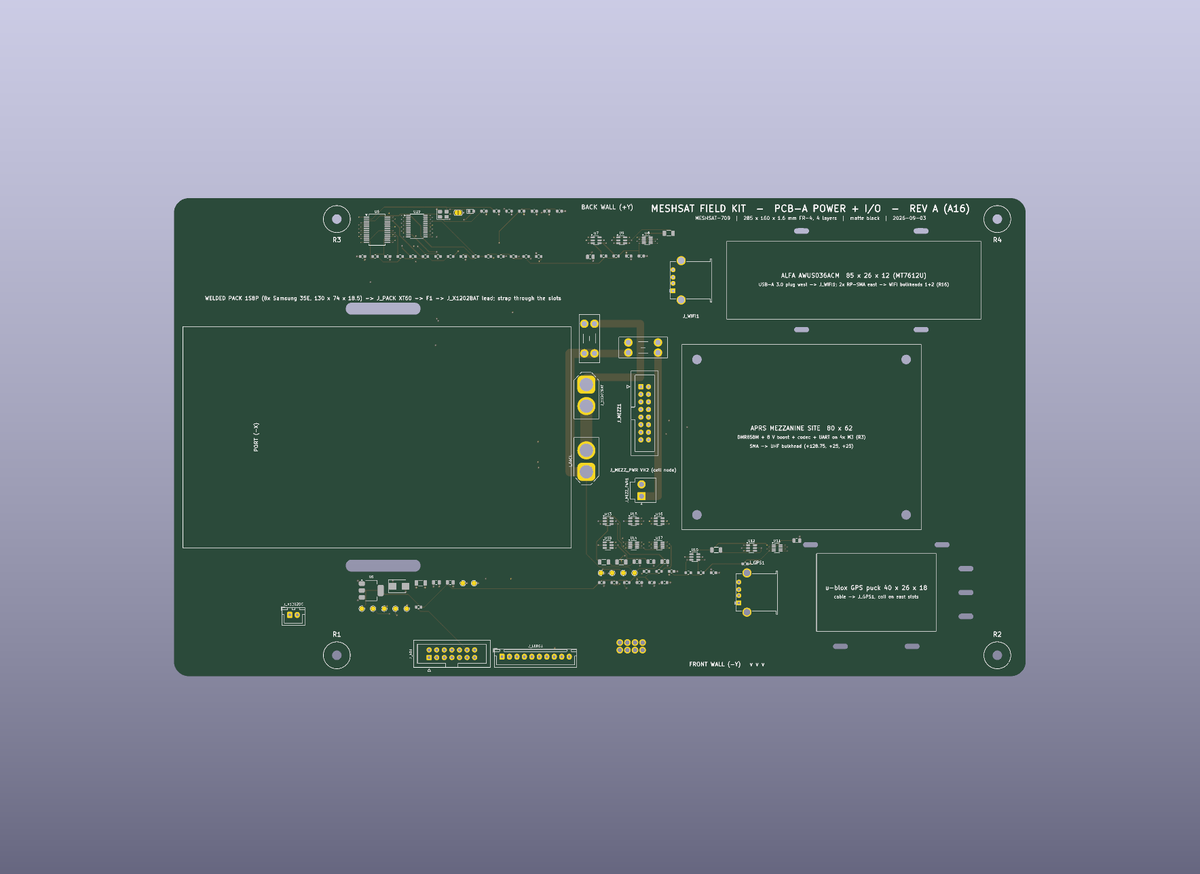
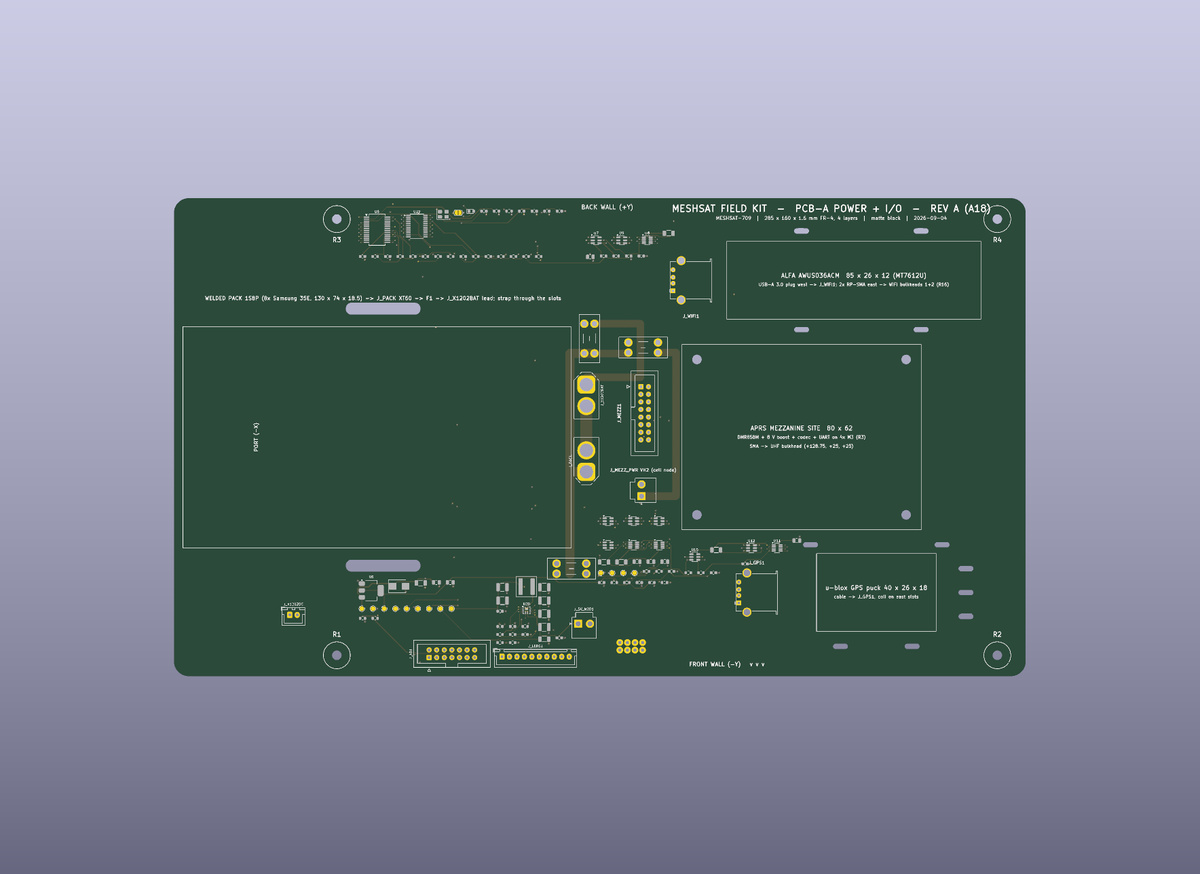
docs(709): parts named (C&K ATP19/ATP16, NKK M series, Amphenol 132170, Preci-Dip 813), A18 and E3 in the guides, appendix 32.10, previews [MESHSAT-709]

diff --git a/v2/docs/ASSEMBLY.md b/v2/docs/ASSEMBLY.md
@@ -2,7 +2,7 @@
 
 Companion to `MESHSAT-709-geometry-appendix.md` (sections 14.6, 22, 25). Boards: PCB-A POWER + I/O (**A17**), PCB-B COMPUTE (**B11**), PCB-C CONTROL PANEL (**C4**), PCB-C spacer ring (R1, optional), PCB-D APRS (D5), PCB-E1 DOCK (E1), PCB-E2 RF JUNCTION (E2). Case: Peli 1520EU with the 1520PF panel frame.
 
-A16 is A15 plus the two blade fuses F1 and F2 on the pack node and `SHORE_INHIBIT` on spring pin 8; C4 is C3 with the e-paper recessed into the panel instead of standing on standoffs. A17 is A16 plus the 5 V module rail (F3, a TPS61089 boost from the cell node, `J_5V_MOD1`); B11 is B10 with the X1202's true outline from Geekworm's DXF, the stack 10 mm west, the ribbon header north of it and the module-rail input `J_5V_MOD` (appendix 32). A15, A16, B10 and C3 no longer exist as deliverables. If a folder or a print says one of them, it is superseded (appendix 25.13 to 25.15, 32).
+A16 is A15 plus the two blade fuses F1 and F2 on the pack node and `SHORE_INHIBIT` on spring pin 8; C4 is C3 with the e-paper recessed into the panel instead of standing on standoffs. A17 is A16 plus the 5 V module rail (F3, a TPS61089 boost from the cell node, `J_5V_MOD1`); B11 is B10 with the X1202's true outline from Geekworm's DXF, the stack 10 mm west, the ribbon header north of it and the module-rail input `J_5V_MOD` (appendix 32). A18 is A17 with the dock pin holes at 1.1 mm for the Preci-Dip 813-S1-008-10-016101 spring-loaded connector; E3 is the junction strip E2 with the D-hole flat at 6.00 across for the Amphenol Connex 132170 coupler (appendix 32.10). A15, A16, A17, B10, C3 and the E2 issue of the junction strip no longer exist as deliverables. If a folder or a print says one of them, it is superseded (appendix 25.13 to 25.15, 32).
 
 ## 1. Fasteners
 
@@ -27,7 +27,7 @@ Threadlocker: Loctite 243 (medium, oil tolerant) on every machine screw into met
 
 1. Dock strip E1: solder the leads (shore inlet lead to J_DCIN, VH crimp), fit the TEN 40-2412WIN, fuse holder and 7.5 A fuse, test 12 V at the targets with 9 V and 36 V in. The EL817 optocoupler on the converter's remote pin is fitted by JLC; with nothing driving spring pin 8 its LED is off and the converter runs, which is the state you are testing in. Stick it to the floor with the two south rod holes on the rod pattern (drop two rods through to locate it before the VHB touches).
 2. Rods: four M3 rods through the floor holes of the strip, Nyloc under the strip is not needed (the strip sits on the floor); a 6.0 mm spacer on each of the two south rods and on the two north rods (the north rods stand on the floor, add a 1.6 mm washer stack so all four spacers sit level).
-3. PCB-A A17 with its spring pins pressed in from the underside (J_DOCK), the three fuse holders and their blades fitted (F1 15 A, F2 10 A, F3 15 A) **before** any lead is energised, the pack strapped on, J_PACK plugged, the J_X1202BAT and J_X1202DC leads routed up the stack's edge, the module-rail VH lead from J_5V_MOD1 likewise. Nyloc on top.
+3. PCB-A A18 with the Preci-Dip 813-S1-008-10-016101 spring-loaded connector soldered in from the underside (J_DOCK, tails on the top face), the three fuse holders and their blades fitted (F1 15 A, F2 10 A, F3 15 A) **before** any lead is energised, the pack strapped on, J_PACK plugged, the J_X1202BAT and J_X1202DC leads routed up the stack's edge, the module-rail VH lead from J_5V_MOD1 likewise. Nyloc on top.
 4. 35 mm spacers, PCB-B B11 with the Pi 5 + X1202 stack on its 22 mm standoffs in the orientation of section 1, the modules, the module-rail VH lead into J_5V_MOD, the panel ribbon plugged into J_PANEL on B11. Nyloc on top.
 5. Connect the X1202 leads: battery lead to the B+ / B- holder solder tabs (16 AWG, XT60 at the PCB-A end), the 12 V lead to the barrel (5521 plug), the switch lead to the reserved external-switch pins, the Pi J2 lead to the Pi's J2 pads, and the 5 V sense lead from one X1202 XH 5 V output to PCB-B J_5V_IN1 (it only enables the module rail; PCB-B draws nothing from it).
 6. Junction strip E2 on the +Z wall; wall bulkhead pigtails to the lower coupler sides (torque 0.45 N m, once); device pigtails to the upper sides, finger tight.
@@ -42,7 +42,7 @@ Threadlocker: Loctite 243 (medium, oil tolerant) on every machine screw into met
 
 | Lead | From | To | Wire | Connector |
 |---|---|---|---|---|
-| Battery parallel lead (**fused at source: F1, 15 A, on A17**) | PCB-A J_X1202BAT (XT60) | X1202 B+ / B- holder solder tabs | 16 AWG silicone, 200 mm | XT60 female at PCB-A |
+| Battery parallel lead (**fused at source: F1, 15 A, on A18**) | PCB-A J_X1202BAT (XT60) | X1202 B+ / B- holder solder tabs | 16 AWG silicone, 200 mm | XT60 female at PCB-A |
 | Shore 12 V | PCB-A J_X1202DC (XH2.5) | X1202 barrel 5.5 x 2.1, centre positive | 20 AWG, 250 mm | XH2.5 + 5521 plug |
 | Case USB-C inlet | not connected to the X1202 (audit 26.2: its two inputs must never be live together); a USB-C PD source feeds the dock inlet through a 12 V PD trigger lead | | | |
 | Shore inlet | IP68 2-pin bulkhead on the -Z wall | E1 J_DCIN (JST-VH) | 18 AWG, 400 mm | VH crimp |
@@ -50,15 +50,15 @@ Threadlocker: Loctite 243 (medium, oil tolerant) on every machine screw into met
 | PI switch | PCB-C J_PIJ2 (XH2.5) | Pi 5 J2 pads | 24 AWG twisted | XH2.5 |
 | Panel ribbon | PCB-B J_PANEL | PCB-C J_PANEL | 20-way 1.27 ribbon, 350 mm | IDC 2x10 both ends |
 | Mezz harness | PCB-A J_MEZZ1 | PCB-D J_HARN1 | 16-way ribbon | IDC 2x8 |
-| Mezz power (**fused at source: F2, 10 A, on A17**) | PCB-A J_MEZZ_PWR1 (VH) | PCB-D boost input | 18 AWG | VH |
-| Module rail (**fused at source: F3, 15 A, on A17**; 5.05 V, up to 5 A) | PCB-A J_5V_MOD1 (VH) | PCB-B J_5V_MOD (VH) | 18 AWG, 150 mm | VH crimp both ends |
+| Mezz power (**fused at source: F2, 10 A, on A18**) | PCB-A J_MEZZ_PWR1 (VH) | PCB-D boost input | 18 AWG | VH |
+| Module rail (**fused at source: F3, 15 A, on A18**; 5.05 V, up to 5 A) | PCB-A J_5V_MOD1 (VH) | PCB-B J_5V_MOD (VH) | 18 AWG, 150 mm | VH crimp both ends |
 | X1202 5 V sense | X1202 XH2.54 5 V output | PCB-B J_5V_IN1 (XH2.5) | 24 AWG twisted | XH both ends; a 110 k load that enables the module-rail boost on PCB-A |
 | RF pigtails | device SMA on B / D / A | E2 coupler, upper side | RG-316, bend radius 12.5 mm | SMA male |
-| Wall pigtails | E2 coupler, lower side | wall bulkhead (SMA female bulkhead, D-hole 6.5) | RG-316 | SMA male |
+| Wall pigtails | E3 coupler (Amphenol Connex 132170), lower side | wall bulkhead (SMA female bulkhead, D-hole 6.5) | RG-316 | SMA male |
 
 Every lead tied at both ends; the rod stack's edge carries the vertical runs with a tie base per bay.
 
-The dock interface is not a lead but belongs in the same reading. Eight spring pins in `J_DOCK` on A17's underside land on E1's targets: pin 8 is `SHORE_INHIBIT` (it was GND before A16), which leaves **three** GND pins carrying the return. At the dock converter's full 40 W that is about 3.33 A total, so about 1.11 A per pin. Confirm that against the spring pin's own rating from the A16 BOM before the first full-load run, and measure it in section 8 test 9 rather than assuming it.
+The dock interface is not a lead but belongs in the same reading. The eight contacts of the Preci-Dip 813-S1-008-10-016101 connector in `J_DOCK` on A18's underside land on E1's targets: pin 8 is `SHORE_INHIBIT` (it was GND before A16), which leaves **three** GND pins carrying the return. At the dock converter's full 40 W that is about 3.33 A total, so about 1.11 A per pin. The Preci-Dip contact is rated 3.5 A, so the 1.11 A per GND pin and 0.83 A per SHORE_12V pin are inside it (appendix 32.10).
 
 ## 5. Conformal coating
 
@@ -79,7 +79,7 @@ Appendix 25.3: lid, 16 screws, ribbon + two leads, panel out, seven pigtails at 
 The four X1202 unknowns of MESHSAT-774 are absorbed by the design (appendix 32.3): the charge current only sets the charge time, the charger timer is restarted by the bridge over GPIO 16, the X1202's protection never sees more than Geekworm rates it for because the pack and the APRS boost hang on the holder tabs behind F1 and F2, and every 5 V load but the Pi runs on the A17 module rail. What remains is commissioning of the built kit, in this order:
 
 1. E1 alone: 12 V at the targets with 9, 12, 24 and 36 V in; reverse polarity applied for 10 s (no damage, no output); the fuse blows on a bolted short.
-2. A17 alone, pack not connected: a bench supply at 3.6 V on J_PACK through a 5 A limit and 5 V on the J_AB1 +5V pins with X1202_5V held high. +5V_MOD reads 5.05 V within 0.1 V at J_5V_MOD1; 2 A drawn from J_5V_MOD1 holds it above 4.9 V; X1202_5V released, the rail falls below 0.5 V within a second.
+2. A18 alone, pack not connected: a bench supply at 3.6 V on J_PACK through a 5 A limit and 5 V on the J_AB1 +5V pins with X1202_5V held high. +5V_MOD reads 5.05 V within 0.1 V at J_5V_MOD1; 2 A drawn from J_5V_MOD1 holds it above 4.9 V; X1202_5V released, the rail falls below 0.5 V within a second.
 3. The stack on B11 with the X1202 leads in: the X1202 on its four cells powers the Pi; the module rail comes up with it and goes down with it (MAIN PWR off on the panel). Record the module-rail current at idle and with the display lit.
 4. Charge: 12.0 V on the dock inlet; note the supply current (1 A or more at 12 V means the node charges at Geekworm's rate). Exercise the bridge's charge-kick rule once by hand (GPIO 16 high 5 s, then low) with the charging LED watched.
 5. Bursts: LTE registration, one Iridium session and one LoRa transmission in turn, the module rail watched at J_5V_MOD1 (stays above 4.75 V); then all three within the same second, once, and note whether the rail sags (expected below about 3.8 V cell voltage and tolerated; the Pi must not reset).
@@ -90,10 +90,10 @@ The four X1202 unknowns of MESHSAT-774 are absorbed by the design (appendix 32.3
 
 ## 9. Bench-fit lists (hand-fitted parts per board, not on the JLC BOM)
 
-- PCB-A A17: the welded pack (section 3) and its strap, the three Keystone 3568 blade holders F1 to F3 if JLC could not place them (stock was 2 against 10 at order time) with 15 A mini blades in F1 and F3 and a 10 A in F2, the VH module-rail lead from J_5V_MOD1, the boost inductor L2 (Coilcraft XAL6030-152MEB, no JLC equivalent, hand-soldered), 8 spring pins in J_DOCK, the four M3 standoffs for PCB-D, the GPS puck and the WiFi dongle in their brackets, the leads of section 4.
+- PCB-A A18: the welded pack (section 3) and its strap, the three Keystone 3568 blade holders F1 to F3 if JLC could not place them (stock was 2 against 10 at order time) with 15 A mini blades in F1 and F3 and a 10 A in F2, the VH module-rail lead from J_5V_MOD1, the boost inductor L2 (Coilcraft XAL6030-152MEB, no JLC equivalent, hand-soldered), the Preci-Dip 813-S1-008-10-016101 spring-loaded connector in J_DOCK (from the underside, tails soldered on the top face; 7.0 mm, 1.4 mm stroke, 3.5 A per contact, appendix 32.10), the four M3 standoffs for PCB-D, the GPS puck and the WiFi dongle in their brackets, the leads of section 4.
 - PCB-B B11: Pi 5 + X1202 on the 49 x 58 pattern on four M2.5 x 22 standoffs (HDMI edge west, header edge east, SD card south; nothing under the X1202), the X1202 5 V sense lead into J_5V_IN1, the module-rail VH lead into J_5V_MOD, T-Call, T-Beam 1W, RTL-SDR, ZigBee dongle, RockBLOCK with the GC bracket, Wio-SX1262, the panel ribbon.
-- PCB-C C4: the two white 3 mm LEDs D10 and D11 (no LCSC stock at order time), two 19 mm and 16 mm anti-vandal switches with LED rings (SW_MAIN 19 mm green, SW_PI 16 mm amber, SW_TEST 16 mm white), one DPDT ON-ON-ON sealed toggle (SW_LIGHT), three SPDT guarded toggles with red covers (SW_SOS momentary, SW_EMCON latching, SW_ZERO momentary), the WeAct 3.7 e-paper module taped under the recessed window (optional 1.0 mm spacer ring pcb-c-ring) with a 2x4-to-1x8 lead to J_EPD, the Touch Display 2 on transfer tape, the piezo sounder if not JLC-fitted, the two XH leads.
+- PCB-C C4: the two white 3 mm LEDs D10 and D11 (no LCSC stock at order time), two 19 mm and 16 mm anti-vandal switches with LED rings (SW_MAIN C&K ATP19-SL1-603-B0SA-03G green, SW_PI C&K ATP16-SL1-403-M0SA-04G orange as the amber, SW_TEST C&K ATP16-SL1-203-M0SA-04G white; solder lugs, gold, 3 V ring type because C4's 470 and 300 ohm resistors set the ring current), one DPDT ON-ON-ON sealed toggle (SW_LIGHT NKK M2044SD3A01 with the AT401A boot), three SPDT sealed toggles (SW_SOS NKK M2015SD3A01 momentary, SW_EMCON NKK M2012SD3A01 latching, SW_ZERO NKK M2015SD3A01 momentary; S bat lever, D3 IP67 bushing, gold-over-silver contacts, solder lugs) without flip covers in Rev A (no maker documents a cover for a 1/4-40 miniature bushing; the PANEL.md hold times protect SOS and ZEROIZE, EMCON is safe-side; the NKK locking lever with its 7.5 mm bushing is the Rev B option), the WeAct 3.7 e-paper module taped under the recessed window (optional 1.0 mm spacer ring pcb-c-ring) with a 2x4-to-1x8 lead to J_EPD, the Touch Display 2 on transfer tape, the piezo sounder if not JLC-fitted, the two XH leads.
 - PCB-D D5: DMR858M on two 1x12 female headers and two M2.5 x 11 standoffs, heatsink up, SMA pigtail, the boost inductor L1 (Coilcraft XAL6030-152MEB, no JLC equivalent, hand-soldered; the ordering session left its line unticked).
 - PCB-E1: TEN 40-2412WIN, Keystone 3568 holder + 7.5 A mini blade, JST-VH shore lead, four VHB pads.
 - PCB-C ring R1: bare 1.0 mm frame, taped between the e-paper module lands and the panel underside when a flush glass face is wanted.
-- PCB-E2: seven SMA female-female bulkhead couplers in the D-holes, six M3 wall screws.
+- PCB-E2 E3: seven Amphenol Connex 132170 SMA female-female bulkhead couplers in the D-holes (1/4-36 thread, 8 mm hex nut and lock washer on the cavity side, panel 2.0 to 6.5 mm), six M3 wall screws.

diff --git a/v2/docs/MESHSAT-709-geometry-appendix.md b/v2/docs/MESHSAT-709-geometry-appendix.md
@@ -2158,9 +2158,9 @@ Why SMP-MAX first: the stack's height over the dock is set by two board thicknes
 |---|---|---|---|---|
 | 1 | all | paper fit check | **struck** (32.1), replaced by the document check above | done |
 | 2 | kit | MESHSAT-774 bench items before payment | **closed by design** (32.3); the commissioning list is ASSEMBLY.md section 8 | done |
-| 3 | A, B | A17 and B11 through the chain, route, finish, handoff | **done 4 Sep 00:05, 32.9**: both 0 hard, 0 unrouted; deliverables, order and review sets rebuilt; A16 and B10 retired | done |
-| 4 | C, E2, A | part identities: switches, coupler, spring pin | open; the owner names them or Claude picks documented parts (32.5, 32.6) | owner or Claude |
-| 5 | order | cart lines A and B rebuilt | when the owner says so ("we update the order when the time comes") | owner |
+| 3 | A, B | A17 and B11 through the chain, route, finish, handoff | **done 4 Sep 00:05, 32.9**: both 0 hard, 0 unrouted; deliverables, order and review sets rebuilt; A16 and B10 retired. **A18 and E3 on 4 Sep afternoon (32.10)**: dock holes and the junction flat follow the named parts | done |
+| 4 | C, E2, A | part identities: switches, coupler, spring pin | **done 4 Sep (32.10)**: C&K ATP19/ATP16, NKK M series, Amphenol Connex 132170, Preci-Dip 813; one residue: no documented flip cover exists for a 1/4-40 toggle bushing, Rev A ships the three guarded toggles without one (owner may rule on the Rev B locking lever) | done, one owner ruling open |
+| 5 | order | cart lines A (A18), B (B11) and E2 (E3) rebuilt | when the owner says so ("we update the order when the time comes") | owner |
 | 6 | kit | reviews: Nick 12 Sep (agenda: 28.6 item 2 restated, plus 32.3), Pavlidis on the public repository | as planned | owner |
 | 7 | kit | JLCPCB sponsorship (776), case ordered 3 Sep, DMR858M modules about 15 Sep | as planned | owner |
 | 8 | Rev B | SMP-MAX or SMP (32.7), the 13 mm gap | owner decision at Rev B time | owner |
@@ -2174,3 +2174,33 @@ B11. The chain (`full_b5.sh`) passed at its third run: J_PANEL was in no placeme
 Handoff: `make_handoff.py` rebuilt `order/` (`PCB-A-POWER-A17`, `PCB-B-COMPUTE-B11` beside the five unchanged folders) and `review/`; the A16 and B10 deliverable folders are retired. Cart lines A and B are rebuilt by the ordering session when the owner says so; the other five lines stand. The GitHub release `revA` carries the A16 and B10 gerber zips until its assets are refreshed.
 
 Tooling kept for the next round: `full_a6.sh`, `full_b5.sh`, `finish_a17.sh`, `finish_b11.sh`, `fix_a17_node.py` (via-aware bars), `fix_pad_escapes.py` (re-creates ripped-up escapes under DRC control; not needed in the end), the PTH-pad fix in `stub_router.py` and `gap_closer_checked.py`, and the boost-part LCSC codes in `lcsc_fill.py`.
+
+### 32.10 Part identities named, 4 Sep 2026 afternoon: switches, coupler, spring pins; A18 and E3
+
+The owner's answers to the four "names only" questions (4 Sep): C&K ATP19 and ATP16 for the pushbuttons, NKK M series with NKK boots and covers for the toggles, Amphenol RF 132170 for the couplers (the owner supplied the RS-hosted drawing), and "pick a documented pin for me" for the dock. Every number below comes from the manufacturer's document filed in `v2/vendor/` (`switches/`, `precidip/`, `rf/`); nothing was measured.
+
+**Pushbuttons (C&K ATP19 and ATP16 data sheets).** Code order: series, actuator (S standard flat), indicator (L1 fixed ring), LED colour, LED voltage, bushing, contact, function (A momentary), termination, plating. C4 feeds the rings from the 5 V LED rail through 470 ohm (SW_MAIN, SW_TEST) and 300 ohm (SW_PI), which puts about 5 to 7 mA through a 3 V ring type, so the LED code is 03 (the 3 V type carries the smallest internal resistor; higher codes would only dim the rings further). Panel holes stay: the ATP19's M19 x 1.0 bushing in the 19.2 mm hole, the ATP16's M16 x 1.0 in the 16.2 mm holes, both round bushings.
+
+| Ref | Part | Meaning |
+|---|---|---|
+| SW_MAIN | C&K ATP19-SL1-603-B0SA-03G | 19 mm, flat actuator, fixed ring, green (6), 3 V, B0 stainless round bushing, SPDT, momentary, solder lug (03), gold |
+| SW_PI | C&K ATP16-SL1-403-M0SA-04G | 16 mm, flat actuator, fixed ring, orange (4, the ATP16's amber; momentary only), 3 V, M0 stainless round bushing, SPST N.O. (the ATP16's only arrangement, enough for the Pi's J2 pair), momentary, solder lug (04), gold |
+| SW_TEST | C&K ATP16-SL1-203-M0SA-04G | as SW_PI with a white ring (2) |
+
+The ATP19 has no orange, hence the ATP16 for the amber PI ring; the ATP16 has no recessed actuator, its flat actuator sits level with the bezel, which is the accidental-press protection the range offers.
+
+**Toggles (NKK M series data sheet, NKK accessories catalogue).** Code order: model, lever, bushing, contact, terminal. Lever S (the .413 inch bat), bushing D3 (1/4-40 thread, 8.9 mm long, splashproof with a D flat, IP67 through its O-rings; it combines only with the S levers; C4's round 6.5 mm holes take it, the flat is simply unused), contact A (gold over silver, dual rated for the dry logic lines), terminal 01 (solder lug, flying leads to the 2.0 mm pads).
+
+| Ref | Part | Circuit |
+|---|---|---|
+| SW_EMCON | NKK M2012SD3A01 | SPDT ON-NONE-ON, latching |
+| SW_SOS, SW_ZERO | NKK M2015SD3A01 | SPDT ON-NONE-(ON), momentary |
+| SW_LIGHT | NKK M2044SD3A01 + AT401A boot | DP ON-ON-ON on the four-pole base with the external jumpers as the data sheet draws them, wired to the six pads; the AT401A splashproof boot assembly (black nitrile, own hex nut) is the boot the footprint names |
+
+Covers: NKK's accessories catalogue lists protective guards for its KB, LB and YB pushbutton series (AT494, AT499, AT4057, AT4072) and none for the M toggles; APEM's switch guards are made for 11.9 and 12 mm bushings; TE's flip cover is for the Kissling 08 series. No maker documents a flip cover for a 1/4-40 miniature bushing, and the guard base drawn on C4 (20 x 32 on the fab layer) has no screw holes, so a base-mounted cover is not a Rev A option either. The M series' own protection is the locking lever (lever L with the L3 splashproof bushing, .295 inch thread), which needs a 7.9 mm panel hole: a Rev B panel change, not C4. Rev A therefore ships SOS, EMCON and ZEROIZE without covers: the hold times of PANEL.md (SOS 2 s, ZEROIZE 5 s) are the accident protection, and EMCON is safe-side (closed = inhibit). The owner may rule on the Rev B choice (locking lever M2012LL3A01 style with 7.9 mm holes, or a screw-mounted guard base).
+
+**Coupler (Amphenol Connex 132170 drawing rev D).** SMA female-female bulkhead adapter: 22.10 mm long, 1/4-36 UNS-2A thread, 5.85 mm across the flats of the bulkhead section, 9.5 mm hex on the fixed side, 8 mm hex nut 1.60 thick, lock washer 10.20 mm, panel 2.0 to 6.5 mm (the strip's 2.0 mm FR-4 is the minimum, so no spacer under the nut). Recommended mounting hole: 6.50 mm with the flat at 6.00 across. The strip cut the flat at 3.0 mm from the centre (6.25 across, 32.5); `gen_pcb_e2.py` now cuts it at 2.75 mm (6.00 across). That is the only change of **E3** (title block A (E3), 4 Sep).
+
+**Spring pins (Preci-Dip catalogue pages 31 and 34).** Preci-Dip 813-S1-008-10-016101: straight spring-loaded connector, low profile, double row 2 x 4 at 2.54 mm, solder tails 0.8 mm diameter and 3.0 mm long on the `PogoPins_2x4` pattern, plastic body 4 mm, initial height 7.0 mm above the board face (height code 016; 6.0, 6.5 and 7.5 exist as 014, 015, 017), maximum stroke 1.4 mm, forces 0.25 N initial and 0.85 N at half stroke, 3.5 A per contact, 50,000 cycles, gold. Against the 6.0 mm spacer gap of section 25 the pistons sit 1.0 mm compressed, 71 percent of the stroke; a stack tolerance of about 0.35 mm either way keeps them between 0.65 and 1.35 mm, never bottomed, never open. Currents: four SHORE_12V contacts share 3.33 A at the dock's 40 W (0.83 A each), the three GND contacts carry 1.11 A each, all inside 3.5 A. The footprint's placeholder 1.5 mm holes are 1.1 mm for the 0.8 mm tails (pad 2.2 mm unchanged, the annular ring only grows); `bump_a18.py` changed the eight drills and the silk label on the routed A17 board with no part moved: **A18**. The connector is fitted from the underside and its tails soldered on the top face (ASSEMBLY.md section 9); pad edits after routing are allowed by the rule of section 2 of the handover (bars and pads on top of router tracks, no moves). The Mill-Max long-stroke series 0914 (0.74 mm holes, 2.3 mm stroke) was the discrete alternative; one body with eight registered tails beats eight loose pins on a hand-fitted board.
+
+**Results.** E3: `build_e2.sh`, DRC clean, two copper layers exported, deliverable `meshsat-pcb-e2-revA-E3`. A18: `finish_a18.sh` (bump, schematic rebuilt for the J_DOCK part text with ERC clean and the nets unchanged, `finish_board.sh`): 0 hard, 0 unrouted, 98 isolated-copper notes on A17 against 98 on A18 (plane islands, cosmetic), deliverable `meshsat-pcb-a-revA-A18`. C4: schematic PDF regenerated with the switch part text (ERC clean) and the deliverable BOM re-exported in the JLC form through `export_jlc.sh` and `lcsc_fill.py` (the same row set as the cart's); the gerbers and the CPL are untouched, so the panel's cart line stands. `make_handoff.py` rebuilt `order/` (`PCB-A-POWER-A18`, `PCB-E2-RFJUNCTION-E3`) and `review/`; the A17 and E2 folders are retired under `order/superseded/`. GitHub release `revA`: the A18 and E3 gerber assets replace A17 and E2, the order set and the review prints are rebuilt. Cart: lines A, B and E2 to be rebuilt from A18, B11 and E3 when the owner says so.

diff --git a/v2/BUILD.md b/v2/BUILD.md
@@ -16,13 +16,13 @@ Seven boards, five assembled by JLCPCB (top side, standard PCBA; the economic ti
 
 | Board | Folder | Size (mm) | Layers | Stackup | Assembly |
 |---|---|---|---|---|---|
-| PCB-A POWER + I/O A17 | `PCB-A-POWER-A17/` | 285 x 160 | 4 | JLC04161H-7628 | top |
+| PCB-A POWER + I/O A18 | `PCB-A-POWER-A18/` | 285 x 160 | 4 | JLC04161H-7628 | top |
 | PCB-B COMPUTE B11 | `PCB-B-COMPUTE-B11/` | 245 x 170 | 4 | JLC04161H-7628 | top, bottom 1 |
 | PCB-C CONTROL PANEL C4 | `PCB-C-DISPLAY-C4/` | 442 x 311 | 2 | standard | top 18, bottom 70 |
 | PCB-C SPACER RING R1 | `PCB-C-RING-R1/` | 106 x 54 | 2 | standard, 1.0 mm | none |
 | PCB-D APRS D5 | `PCB-D-APRS-D5/` | 80 x 62 | 4 | JLC04161H-7628 | top 78, bottom 1 |
 | PCB-E1 DOCK E1 | `PCB-E1-DOCK-E1/` | 250 x 44 | 2 | standard | top 15 |
-| PCB-E2 RF JUNCTION E2 | `PCB-E2-RFJUNCTION-E2/` | 330 x 32 | 2 | standard, no copper | none |
+| PCB-E2 RF JUNCTION E3 | `PCB-E2-RFJUNCTION-E3/` | 330 x 32 | 2 | standard, no copper | none |
 
 Common settings, from the ORDER-NOTES: 1.6 mm FR-4 (the ring 1.0 mm), 1 oz outer copper, ENIG, matte black solder mask, white silkscreen, no castellations, order number removed, quantity 5 (the JLCPCB minimum). The four-layer boards carry USB 2.0 pairs at 0.2 mm track and 0.15 mm gap on the outer layers; ask for 90 ohm differential tuning on the 7628 stackup. Turn both free confirmation options on (production file review and the BOM/CPL confirmation) so the placement preview is checked before anything is cut. On the JLC preview, check the rotation of every polarised part against `release/revA/review/<board>/*-assembly-top.pdf`.
 
@@ -42,9 +42,9 @@ Hardware per `docs/ASSEMBLY.md` section 1: four M3 stainless rods with Nyloc nut
 
 Consumables: 3M 467MP or 9495LE transfer tape (display and e-paper), 3M VHB 5952 pads (dock strip), MG Chemicals 422B acrylic conformal coating, kapton for the masks, IPA.
 
-Electrical: eight spring pins for `J_DOCK` (2.54 pitch, the part named in appendix 32.6 once picked), Keystone 3568 mini blade holders with two 15 A, one 10 A and one 7.5 A blade, an 18 AWG JST-VH lead for the module rail (PCB-A `J_5V_MOD1` to PCB-B `J_5V_MOD`, 150 mm), two Coilcraft XAL6030-152MEB inductors (L2 on PCB-A, L1 on PCB-D; JLCPCB has no equivalent, hand-soldered) and a 24 AWG XH lead for the X1202 5 V sense (one X1202 XH output to PCB-B `J_5V_IN1`), XT60 pairs, JST-XH 2.5 and JST-VH housings and crimps, 16 / 18 / 20 / 24 AWG silicone wire, a 20-way 1.27 mm ribbon with 2x10 IDC ends (350 mm), a 16-way ribbon with 2x8 IDC ends, a 5.5 x 2.1 barrel plug, an IP68 2-pin DC bulkhead (Bulgin PX0 or Amphenol C016 class) with a 12 V PD trigger lead for USB-C sources, seven SMA female-female bulkhead couplers for E2, SMA female bulkheads for the wall, RG-316 pigtails (SMA male ends, u.FL where the module has it).
+Electrical: the Preci-Dip 813-S1-008-10-016101 spring-loaded connector for `J_DOCK` (2 x 4 at 2.54 mm, 7.0 mm high, solder tails), Keystone 3568 mini blade holders with two 15 A, one 10 A and one 7.5 A blade, an 18 AWG JST-VH lead for the module rail (PCB-A `J_5V_MOD1` to PCB-B `J_5V_MOD`, 150 mm), two Coilcraft XAL6030-152MEB inductors (L2 on PCB-A, L1 on PCB-D; JLCPCB has no equivalent, hand-soldered) and a 24 AWG XH lead for the X1202 5 V sense (one X1202 XH output to PCB-B `J_5V_IN1`), XT60 pairs, JST-XH 2.5 and JST-VH housings and crimps, 16 / 18 / 20 / 24 AWG silicone wire, a 20-way 1.27 mm ribbon with 2x10 IDC ends (350 mm), a 16-way ribbon with 2x8 IDC ends, a 5.5 x 2.1 barrel plug, an IP68 2-pin DC bulkhead (Bulgin PX0 or Amphenol C016 class) with a 12 V PD trigger lead for USB-C sources, seven SMA female-female bulkhead couplers for E2, SMA female bulkheads for the wall, RG-316 pigtails (SMA male ends, u.FL where the module has it).
 
-Panel hardware: SW_MAIN 19 mm anti-vandal with green ring, SW_PI 16 mm amber ring, SW_TEST 16 mm white ring, one sealed DPDT ON-ON-ON toggle (SW_LIGHT), three SPDT guarded toggles with red covers (SW_SOS momentary, SW_EMCON latching, SW_ZERO momentary), an 85 dB piezo if not fitted by JLCPCB, the two white 3 mm LEDs D10 and D11.
+Panel hardware: two 19 mm and 16 mm anti-vandal switches with LED rings (SW_MAIN C&K ATP19-SL1-603-B0SA-03G green, SW_PI C&K ATP16-SL1-403-M0SA-04G orange as the amber, SW_TEST C&K ATP16-SL1-203-M0SA-04G white; solder lugs, gold, 3 V ring type because C4's 470 and 300 ohm resistors set the ring current), one DPDT ON-ON-ON sealed toggle (SW_LIGHT NKK M2044SD3A01 with the AT401A boot), three SPDT sealed toggles (SW_SOS NKK M2015SD3A01 momentary, SW_EMCON NKK M2012SD3A01 latching, SW_ZERO NKK M2015SD3A01 momentary; S bat lever, D3 IP67 bushing, gold-over-silver contacts, solder lugs) without flip covers in Rev A (no maker documents a cover for a 1/4-40 miniature bushing; the PANEL.md hold times protect SOS and ZEROIZE, EMCON is safe-side; the NKK locking lever with its 7.5 mm bushing is the Rev B option), seven Amphenol Connex 132170 SMA bulkhead couplers for the junction strip, an 85 dB piezo if not fitted by JLCPCB, the two white 3 mm LEDs D10 and D11.
 
 ## 3. Prepare the case
 
@@ -64,7 +64,7 @@ Follow `docs/ASSEMBLY.md` section 2 step by step; the short form:
 
 1. Dock strip E1: solder the leads, fit the TEN 40-2412WIN, the fuse holder and a 7.5 A blade, test 12 V at the targets with 9 V and 36 V in, then stick it down.
 2. Rods through the strip's holes with the 6.0 mm spacers (washer stack under the two north rods so all four sit level).
-3. PCB-A A17: press the eight spring pins in from the underside, fit F1 (15 A), F2 (10 A) and F3 (15 A) before anything is energised, strap the pack on, plug `J_PACK`, route the `J_X1202BAT`, `J_X1202DC` and module-rail (`J_5V_MOD1`, VH) leads up the stack's edge. Nyloc on top.
+3. PCB-A A18: solder the Preci-Dip 813-S1-008-10-016101 connector in from the underside (tails on the top face), fit F1 (15 A), F2 (10 A) and F3 (15 A) before anything is energised, strap the pack on, plug `J_PACK`, route the `J_X1202BAT`, `J_X1202DC` and module-rail (`J_5V_MOD1`, VH) leads up the stack's edge. Nyloc on top.
 4. 35 mm spacers, PCB-B B11 with the Pi 5 and X1202 stack on its 22 mm standoffs (Pi HDMI edge west, GPIO header edge east, SD card south; nothing under the X1202), the module-rail lead into `J_5V_MOD`, the modules, the panel ribbon in `J_PANEL`. Nyloc on top.
 5. X1202 leads: battery lead to the B+ / B- holder tabs (16 AWG, XT60 at PCB-A, fused by F1 at the source), 12 V lead to the barrel, switch lead to the external-switch pins, Pi J2 lead to the Pi's J2 pads, and the 5 V sense lead from one XH 5 V output to PCB-B `J_5V_IN1` (it enables the module rail; PCB-B draws nothing through it).
 6. Junction strip pigtails: wall side torqued once at 0.45 N m, device side finger tight; RG-316 with a 12.5 mm bend radius, tied at both ends.
@@ -96,9 +96,9 @@ Removal for maintenance (`docs/ASSEMBLY.md` section 7): lid, 16 screws, ribbon a
 ## 9. Known gaps of Rev A
 
 - RF is not blind-mate: the seven paths go through SMA couplers on the wall strip and must be unscrewed to lift the stack out. SMP blind-mate is Rev B (MESHSAT-775).
-- The spring-pin return path is three pins; confirm the pin rating before the first full-load run (section 8).
+- The spring-pin return path is three contacts at about 1.1 A each, inside the Preci-Dip contact's 3.5 A rating.
 - The module rail's boost (TPS61089, 10 A peak limit) carries one bearer burst at a time over the whole discharge; three at once is tolerated only above about 3.8 V cell voltage, and the bridge serialises them (`docs/PANEL.md` section 10). The TPS61288 is the Rev B option if that ever matters.
-- The panel switch parts, the SMA coupler for E2 (its D-hole flat follows the part) and the dock spring pin (the footprint drill follows the part) are not yet named.
+- The three guarded toggles (SOS, EMCON, ZEROIZE) have no flip cover in Rev A: no switch maker documents one for a 1/4-40 miniature bushing (`docs/ASSEMBLY.md` section 9). The hold times of `docs/PANEL.md` are the accident protection; the NKK locking lever, which needs a 7.5 mm bushing hole, is the Rev B option for the panel.
 - The commissioning list (MESHSAT-774) and the panel software (MESHSAT-773) are open.
 - The DMR858M carrier (PCB-D) has not been powered yet; the modules arrive mid September 2026 and the first bring-up uses the AIOC as a temporary codec into the existing Direwolf pipeline.
 - Nothing here has been built. Report what does not fit on MESHSAT-709.

diff --git a/README.md b/README.md
@@ -21,24 +21,24 @@ Seven KiCad 9 boards replace the plates, the loose wiring and the USB hub. The s
 
 | Board | Rev | Size (mm) | Layers | JLCPCB assembly | Role |
 |---|---|---|---|---|---|
-| PCB-A POWER + I/O | A17 | 285 x 160 | 4 | top | pack node with fuses, 5 V module-rail boost, USB hub with eFuses and current sense, GPIO expander, dock spring pins |
+| PCB-A POWER + I/O | A18 | 285 x 160 | 4 | top | pack node with fuses, 5 V module-rail boost, USB hub with eFuses and current sense, GPIO expander, dock spring pins |
 | PCB-B COMPUTE | B11 | 245 x 170 | 4 | top, bottom 1 | Pi 5 + X1202 stack, module carriers (T-Call, RTL-SDR, ZigBee, RockBLOCK, LoRa), panel ribbon |
 | PCB-C CONTROL PANEL | C4 | 442 x 311 | 2 | top 18, bottom 70 | the 1520PF panel: Touch Display 2 flush, recessed 3.7 inch e-paper window, MIL-STD-1472 controls, two GPIO expanders, MeshSat logo |
 | PCB-C SPACER RING | R1 | 106 x 54 | 2 | none | 1.0 mm ring that brings the e-paper glass flush with the panel face |
 | PCB-D APRS | D5 | 80 x 62 | 4 | top 78, bottom 1 | NiceRF DMR858M carrier: CM108 codec, PTT with hardware inhibit, USB-UART, boost, SMA |
 | PCB-E1 DOCK | E1 | 250 x 44 | 2 | top 15 | floor strip: spring-pin targets, isolated 9 to 36 V shore entry to the X1202, fuse, remote inhibit |
-| PCB-E2 RF JUNCTION | E2 | 330 x 32 | 2 | none | wall strip carrying the SMA bulkhead couplers |
+| PCB-E2 RF JUNCTION | E3 | 330 x 32 | 2 | none | wall strip carrying the SMA bulkhead couplers |
 
 | | |
 |---|---|
 | ![PCB-A](v2/images/pcb-a-power-top.png) | ![PCB-B](v2/images/pcb-b-compute-top.png) |
-| PCB-A POWER + I/O (A17) | PCB-B COMPUTE (B11) |
+| PCB-A POWER + I/O (A18) | PCB-B COMPUTE (B11) |
 | ![PCB-C](v2/images/pcb-c-display-top.png) | ![PCB-C ring](v2/images/pcb-c-ring-top.png) |
 | PCB-C CONTROL PANEL (C4) | PCB-C SPACER RING (R1) |
 | ![PCB-D](v2/images/pcb-d-aprs-top.png) | ![PCB-E1](v2/images/pcb-e1-dock-top.png) |
 | PCB-D APRS (D5) | PCB-E1 DOCK (E1) |
 | ![PCB-E2](v2/images/pcb-e2-rfjunction-top.png) | |
-| PCB-E2 RF JUNCTION (E2) | |
+| PCB-E2 RF JUNCTION (E3) | |
 
 **To build one: [`v2/BUILD.md`](v2/BUILD.md)** (ordering the boards at JLCPCB, the parts to buy, case preparation, the pack, assembly order, coating, software, bench checks). Sources, generators, vendor references, the Rev A release and the order record are described in [`v2/README.md`](v2/README.md). The design record is [`v2/docs/MESHSAT-709-geometry-appendix.md`](v2/docs/MESHSAT-709-geometry-appendix.md), the build procedure [`v2/docs/ASSEMBLY.md`](v2/docs/ASSEMBLY.md), the panel software contract [`v2/docs/PANEL.md`](v2/docs/PANEL.md).
 

diff --git a/v2/release/revA/order/ORDER-LOG.md b/v2/release/revA/order/ORDER-LOG.md
@@ -582,3 +582,7 @@ Change against section 5.1 (1184.74): -0.12, component price drift on A16, B10 a
 ## 4 Sep 2026 00:20: A16 and B10 superseded by A17 and B11 (appendix 32)
 
 The cart lines for PCB-A and PCB-B were prepared from A16 and B10 and must be rebuilt from `PCB-A-POWER-A17/` and `PCB-B-COMPUTE-B11/` when the owner says so; the other five lines stand. The A16 and B10 folders with the `upload/` and `final/` copies of what went into the cart are kept under `superseded/` as the record of those lines. Reasons: the X1202's real outline (the Geekworm DXF) and the 5 V module rail ruling, appendix 32.2 to 32.4.
+
+## 4 Sep 2026 afternoon: A17 and E2 superseded by A18 and E3 (appendix 32.10)
+
+The dock connector is now the Preci-Dip 813-S1-008-10-016101 (solder tails 0.8 mm), so the eight `J_DOCK` holes went from 1.5 to 1.1 mm on the routed board (no part moved): **A18** replaces A17. The junction strip's D-hole flat follows the Amphenol Connex 132170 drawing (6.00 across instead of 6.25): **E3** replaces the strip's E2 issue. The cart lines for PCB-A and PCB-E2 must be rebuilt from `PCB-A-POWER-A18/` and `PCB-E2-RFJUNCTION-E3/` when the owner says so, together with PCB-B from `PCB-B-COMPUTE-B11/`. C4's schematic PDF carries the switch part numbers now; its gerbers, JLC BOM (same row set) and CPL are unchanged, the panel line stands. `PCB-A-POWER-A17/` and `PCB-E2-RFJUNCTION-E2/` are under `superseded/`.

diff --git a/v2/README.md b/v2/README.md
@@ -6,13 +6,13 @@ Three rulings bind the design (details in `docs/MESHSAT-709-geometry-appendix.md
 
 | Board | Rev | Size (mm) | Layers | Project | Deliverable folder |
 |---|---|---|---|---|---|
-| PCB-A POWER + I/O | A17 | 285 x 160 | 4 | `ecad/pcb-a-power/` | `release/revA/boards/meshsat-pcb-a-revA-A17/` |
+| PCB-A POWER + I/O | A18 | 285 x 160 | 4 | `ecad/pcb-a-power/` | `release/revA/boards/meshsat-pcb-a-revA-A18/` |
 | PCB-B COMPUTE | B11 | 245 x 170 | 4 | `ecad/pcb-b-compute/` | `release/revA/boards/meshsat-pcb-b-revA-B11/` |
 | PCB-C CONTROL PANEL | C4 | 442 x 311 | 2 | `ecad/pcb-c-display/` | `release/revA/boards/meshsat-pcb-c-revA-C4/` |
 | PCB-C SPACER RING | R1 | 106 x 54 | 2 | `ecad/pcb-c-ring/` | `release/revA/boards/meshsat-pcb-c-ring-revA-R1/` |
 | PCB-D APRS | D5 | 80 x 62 | 4 | `ecad/pcb-d-aprs/` | `release/revA/boards/meshsat-pcb-d-revA-D5/` |
 | PCB-E1 DOCK | E1 | 250 x 44 | 2 | `ecad/pcb-e1-dock/` | `release/revA/boards/meshsat-pcb-e-revA-E1/` |
-| PCB-E2 RF JUNCTION | E2 | 330 x 32 | 2 | `ecad/pcb-e2-rfjunction/` | `release/revA/boards/meshsat-pcb-e2-revA-E2/` |
+| PCB-E2 RF JUNCTION | E3 | 330 x 32 | 2 | `ecad/pcb-e2-rfjunction/` | `release/revA/boards/meshsat-pcb-e2-revA-E3/` |
 
 **Build guide: [`BUILD.md`](BUILD.md)** walks from an empty cart to a running kit. This page is the map of the folder.
 
